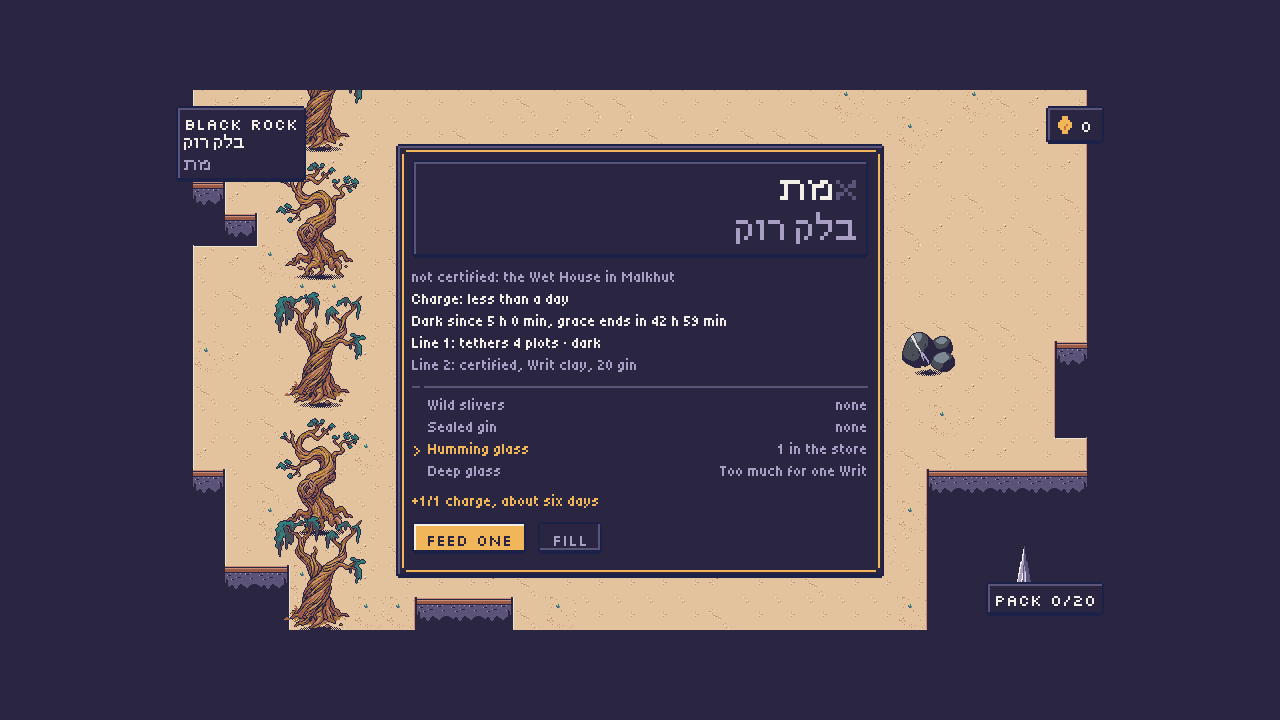
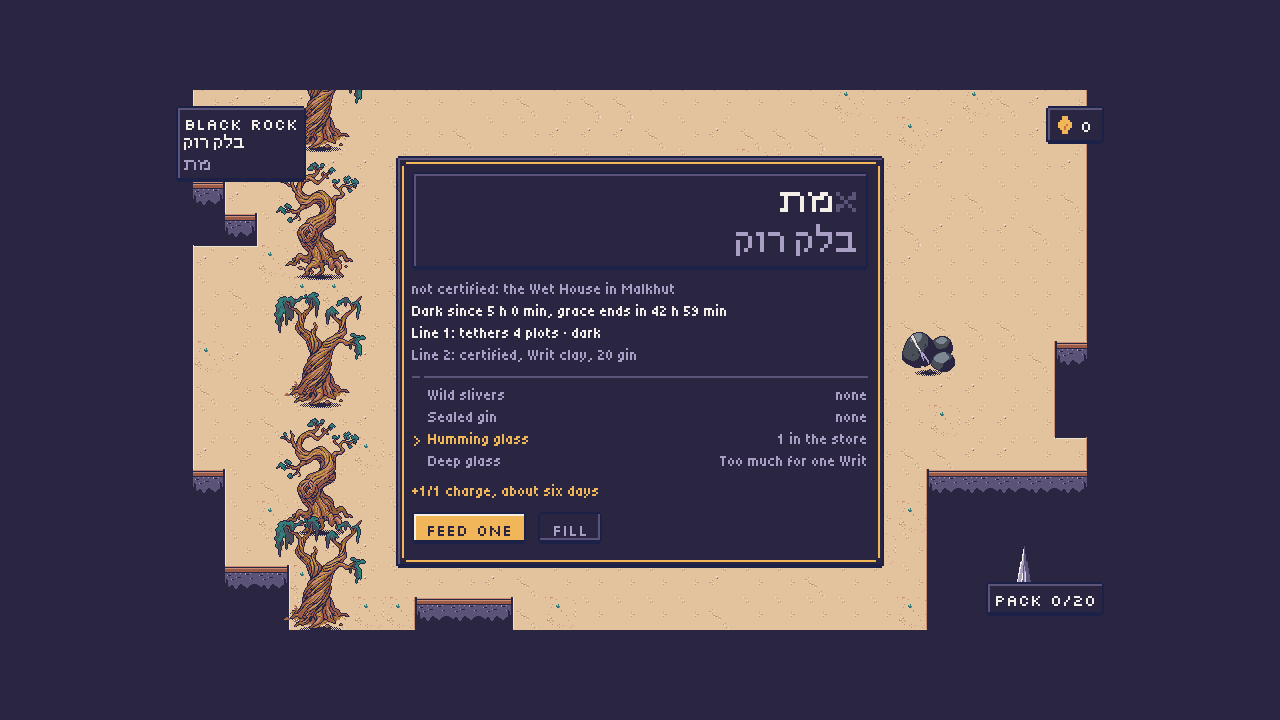
Writ panel: no charge line while dark or fading
The charge is 0 then and the state line already says so (MAIN's review of #91); lit and
flickering keep it. Tested in writView.test.ts; shots 11 and 13 re-taken.

Claude-Session: https://claude.ai/code/session_01MMtJce7F2Qu9LQ1Vyh3XP8

Changed region(s): [[0.3125, 0.3667, 0.6875, 0.825], [0.3125, 0.1833, 0.6875, 0.3667]]

diff --git a/apps/client/src/ui/writPanel.ts b/apps/client/src/ui/writPanel.ts
@@ -191,8 +191,13 @@ export class WritPanel {
     const d = derive(view, this.serverMs);
     this.rim.setText(rimLine(view.certified));
     const charge = chargeLines(d);
-    this.charge.setText(`Charge: ${charge.words}`);
-    this.tip.setText(charge.exact);
+    this.charge.setText(charge ? `Charge: ${charge.words}` : '').setVisible(charge !== null);
+    this.tip.setText(charge?.exact ?? '');
+    if (charge) this.chargeZone.setInteractive();
+    else {
+      this.chargeZone.disableInteractive();
+      this.tipVisible = false;
+    }
     this.state.setText(stateLine(d, this.serverMs));
     const first = d.lines[0];
     this.line1.setText(first ? lineLine(first) : '');
@@ -331,10 +336,11 @@ export class WritPanel {
     const faceW = Math.max(INNER, shapeLetters(letters).width * SCALE + FACE_PAD * 2);
     const w = Math.max(W, faceW + 2 * PAD);
     const rows = this.choices.length;
-    const h = PAD + FACE_H + 6 + 4 * ROW + 4 + 1 + 4 + rows * ROW + 4 + ROW + 4 + 15 + 4 + ROW + PAD;
+    const chargeRows = this.charge.visible ? 1 : 0;
+    const h = PAD + FACE_H + 6 + (3 + chargeRows) * ROW + 4 + 1 + 4 + rows * ROW + 4 + ROW + 4 + 15 + 4 + ROW + PAD;
     const x = Math.round(frame.x + frame.w / 2 - w / 2);
     const y = Math.round(frame.y + frame.h / 2 - h / 2);
-    const key = `${x},${y},${w},${h},${this.feedLabel},${this.selected},${JSON.stringify(this.focus)},${this.host.showFocus()}`;
+    const key = `${x},${y},${w},${h},${chargeRows},${this.feedLabel},${this.selected},${JSON.stringify(this.focus)},${this.host.showFocus()}`;
     if (key === this.placed) return;
     this.placed = key;
     this.g.clear();
@@ -344,9 +350,11 @@ export class WritPanel {
     ly += FACE_H + 6;
     place(this.rim, x + PAD, ly);
     ly += ROW;
-    place(this.charge, x + PAD, ly);
-    this.chargeZone.setPosition(x + PAD, ly);
-    ly += ROW;
+    if (chargeRows) {
+      place(this.charge, x + PAD, ly);
+      this.chargeZone.setPosition(x + PAD, ly);
+      ly += ROW;
+    }
     place(this.state, x + PAD, ly);
     ly += ROW;
     place(this.line1, x + PAD, ly);
@@ -432,7 +440,7 @@ export class WritPanel {
     this.serverMs = serverMs;
     this.layout();
     this.drawFace(this.host.scene.time.now);
-    const showTip = this.tipVisible;
+    const showTip = this.tipVisible && this.charge.visible;
     this.tipG.setVisible(showTip);
     this.tip.setVisible(showTip);
     if (this.resultAt >= 0) {
@@ -447,7 +455,7 @@ export class WritPanel {
   /** What the playtests read. */
   snapshot(): {
     state: string;
-    charge: string;
+    charge: string | null;
     stateLine: string;
     rim: string;
     line1: string;
@@ -463,7 +471,7 @@ export class WritPanel {
   } {
     return {
       state: this.view?.state ?? '',
-      charge: this.charge.text,
+      charge: this.charge.visible ? this.charge.text : null,
       stateLine: this.state.text,
       rim: this.rim.text,
       line1: this.line1.text,

diff --git a/apps/client/src/game/writView.test.ts b/apps/client/src/game/writView.test.ts
@@ -137,6 +137,10 @@ describe("the panel's lines", () => {
     expect(rimLine(true)).toBe('certified');
     const lit = derive(named(at(41) + 12 * 60_000, at(0)), at(0));
     expect(chargeLines(lit)).toEqual({ words: 'about two days', exact: '41 h 12 min' });
+    expect(chargeLines(derive(named(at(10), at(0)), at(0)))).toEqual({ words: 'less than a day', exact: '10 h 0 min' });
+    // Dark or fading: the charge is 0 and the state line says so, so the charge line is left out (MAIN, #91).
+    expect(chargeLines(derive(named(at(0), at(10)), at(10)))).toBeNull();
+    expect(chargeLines(derive(named(at(0), at(100)), at(100)))).toBeNull();
     expect(stateLine(lit, at(0))).toBe('Lit');
     expect(stateLine(derive(named(at(10), at(0)), at(0)), at(0))).toBe('Flickering');
     const dark = derive(named(at(0), at(3) + 12 * 60_000), at(3) + 12 * 60_000);

diff --git a/apps/client/src/game/writView.ts b/apps/client/src/game/writView.ts
@@ -188,8 +188,13 @@ export function lineLine(line: WritLine): string {
   return `Line ${line.line}: tethers ${line.plots} plot${line.plots === 1 ? '' : 's'} · ${line.state}`;
 }
 
-/** The charge in words, and the exact time for its tooltip. */
-export function chargeLines(writ: Pick<WritDerived, 'words' | 'chargeMs'>): { words: string; exact: string } {
+/**
+ * The charge in words, and the exact time for its tooltip, while the Writ is
+ * lit or flickering; null when it is dark or fading (the charge is 0 and
+ * the state line already says so: MAIN's review of #91).
+ */
+export function chargeLines(writ: Pick<WritDerived, 'state' | 'words' | 'chargeMs'>): { words: string; exact: string } | null {
+  if (writ.state === 'dark' || writ.state === 'fading') return null;
   return { words: writ.words, exact: exactTime(writ.chargeMs) };
 }
 

diff --git a/docs/design/holding.md b/docs/design/holding.md
@@ -379,7 +379,7 @@ outer letters (the first and last of each line) switching between ember and dim 
 fading, the aleph dark so the Writ reads מת and the Name line dim while dark, then dark once line 1 has
 faded. A Name wider than the face after the lean hand widens the face, never the letters. Then the rim
 ("not certified: the Wet House in Malkhut", or "certified"), the charge in words with the exact time as a
-tooltip, the state line ("Lit", "Flickering", "Dark since 3 h 12 min, grace ends in 44 h 48 min", "Line 1
+tooltip (left out while dark or fading: the charge is 0 and the state line says so), the state line ("Lit", "Flickering", "Dark since 3 h 12 min, grace ends in 44 h 48 min", "Line 1
 fading"; relative times in hours and minutes), "Line 1: tethers 4 plots · lit", "Line 2: certified, Writ
 clay, 20 gin" greyed, and the Sparkglass by kind with what the pack and the store hold (the purse for gin),
 a kind that doesn't fit now greyed with its line. The player picks a kind, sees the preview ("+1/3 charge,
